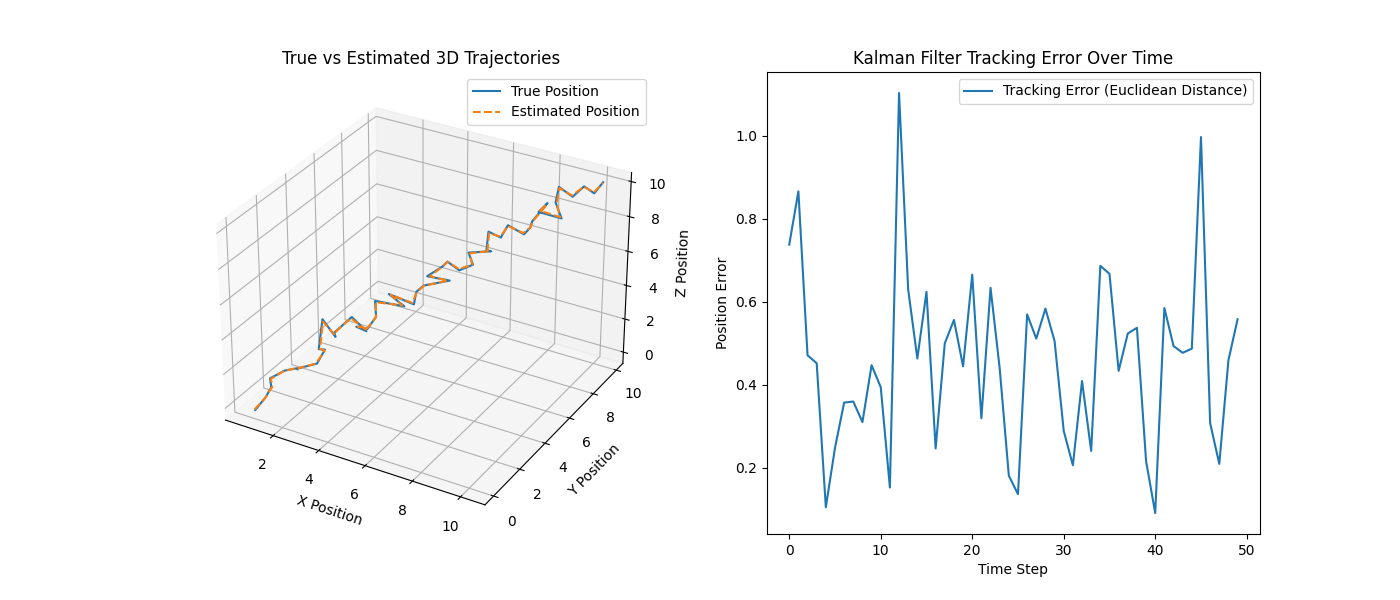
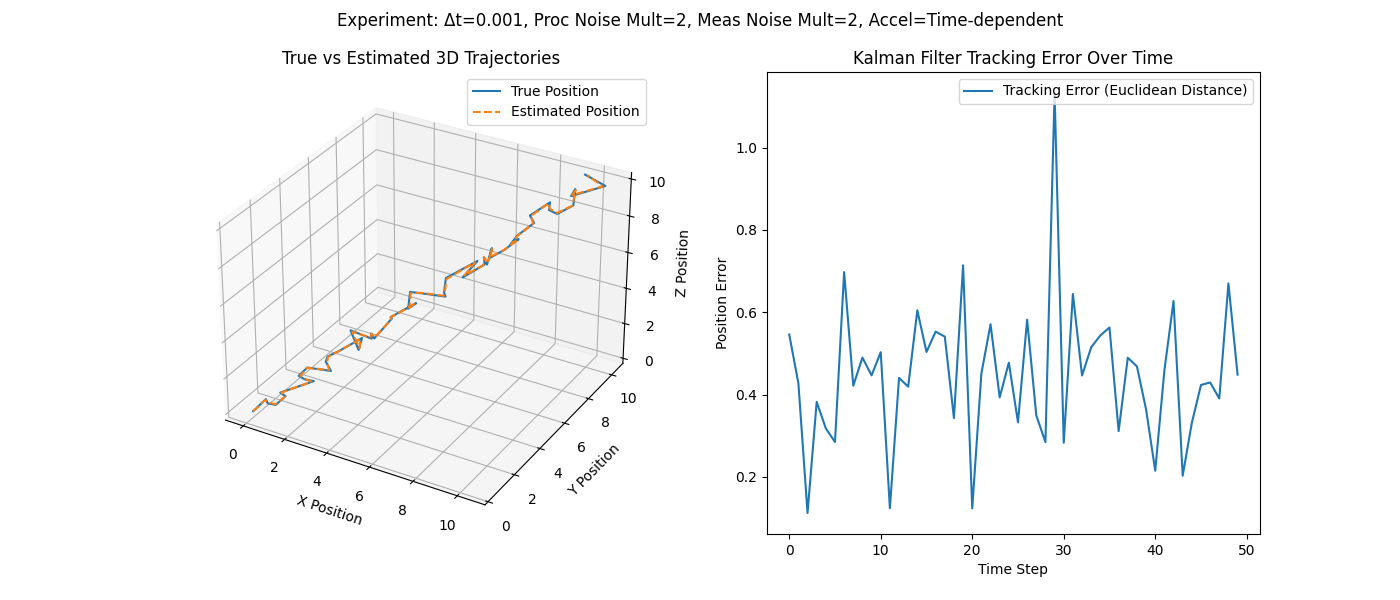
completed

diff --git a/main.py b/main.py
@@ -145,37 +145,39 @@ def normal_run():
         ("Constant", np.array([0.1, 0.1, -0.01])),
         ("Time-dependent", lambda t: np.array([0.1 * np.sin(t), 0.1 * np.cos(t), -0.01 * t]))
     ]
-    # for delta_t in delta_t_values:
-    #     for (proc_noise_mult, meas_noise_mult) in noise_multipliers:
-    #         for acc_type, acceleration in acceleration_types:
-    #             # Create Kalman filter with adjusted noise
-    #             process_noise_cov = np.diag([0.02, 0.02, 0.02, 0.01, 0.01, 0.01]) * proc_noise_mult
-    #             measurement_noise_cov = np.diag([0.05, 0.05, 0.05, 0.02, 0.02, 0.02]) * meas_noise_mult
+    for delta_t in delta_t_values:
+        for (proc_noise_mult, meas_noise_mult) in noise_multipliers:
+            for acc_type, acceleration in acceleration_types:
+                # Create Kalman filter with adjusted noise
+                process_noise_cov = np.diag([0.02, 0.02, 0.02, 0.01, 0.01, 0.01]) * proc_noise_mult
+                measurement_noise_cov = np.diag([0.05, 0.05, 0.05, 0.02, 0.02, 0.02]) * meas_noise_mult
 
-    #             # Instantiate Kalman filter
-    #             kalman_filter = MissileTrackerKalmanFilter(
-    #                 delta_t, H, process_noise_cov, measurement_noise_cov, initial_state, initial_covariance
-    #             )
+                # Instantiate Kalman filter
+                kalman_filter = MissileTrackerKalmanFilter(
+                    delta_t, H, process_noise_cov, measurement_noise_cov, initial_state, initial_covariance
+                )
 
-    #             # Run simulation based on acceleration type
-    #             if acc_type == "Constant":
-    #                 true_positions, estimated_positions, errors = Util.simulate_trajectory(
-    #                     time_steps, delta_t, int(0.01 / delta_t), initial_position, initial_velocity, acceleration, kalman_filter
-    #                 )
-    #             elif acc_type == "Time-dependent":
-    #                 true_positions, estimated_positions, errors = Util.simulate_trajectory(
-    #                     time_steps, delta_t, int(0.02 / delta_t), initial_position, initial_velocity, acceleration, kalman_filter
-    #                 )
+                # Run simulation based on acceleration type
+                if acc_type == "Constant":
+                    true_positions, estimated_positions, errors = Util.simulate_trajectory(
+                        time_steps, delta_t, int(0.01 / delta_t), initial_position, initial_velocity, acceleration, kalman_filter
+                    )
+                elif acc_type == "Time-dependent":
+                    true_positions, estimated_positions, errors = Util.simulate_trajectory(
+                        time_steps, delta_t, int(0.02 / delta_t), initial_position, initial_velocity, acceleration, kalman_filter
+                    )
 
-    #             # Plot and display results
-    #             title = f"Experiment: Δt={delta_t}, Proc Noise Mult={proc_noise_mult}, Meas Noise Mult={meas_noise_mult}, Accel={acc_type}"
-    #             print(title)
-    #             fig = Util.plot_trajectory(true_positions, estimated_positions, errors, normal_run=False)
-    #             # save fig
-    #             save_name = re.sub(r'[<>:"/\\|?*]', "", title)
-    #             save_name = save_name.replace(" ", "_").replace("Δ", "delta").replace("=", "_").replace(",", "_").replace(".", "_") + ".png"
-    #             os.makedirs("results", exist_ok=True)
-    #             fig.savefig(os.path.join("results", save_name))
+                # Plot and display results
+                title = f"Experiment: Δt={delta_t}, Proc Noise Mult={proc_noise_mult}, Meas Noise Mult={meas_noise_mult}, Accel={acc_type}"
+                print(title)
+                fig = Util.plot_trajectory(true_positions, estimated_positions, errors, normal_run=False)
+                # add parameter values in plt
+                plt.suptitle(title)
+                # save fig
+                save_name = re.sub(r'[<>:"/\\|?*]', "", title)
+                save_name = save_name.replace(" ", "_").replace("Δ", "delta").replace("=", "_").replace(",", "_").replace(".", "_") + ".png"
+                os.makedirs("results", exist_ok=True)
+                fig.savefig(os.path.join("results", save_name))
 
     # create plots when only delta_t is varied
     errors=[]
@@ -189,11 +191,9 @@ def normal_run():
             time_steps, delta_t, int(0.2 / delta_t), initial_position, initial_velocity, np.array([0.1, 0.1, -0.01]), kalman_filter
         )
         rmse_error = np.sqrt(np.mean(np.square(error)))
-        # scale by total true position cnt
-        rmse_error_scaled = rmse_error/len(true_positions)
-        errors.append(rmse_error_scaled)
+        errors.append(rmse_error)
 
-    fig, ax = plt.subplots(2, 2, figsize=(10, 12))
+    fig, ax = plt.subplots(2, 2, figsize=(12, 10))
 
     # Create line plot of errors and delta_t
     ax[0][0].plot(delta_t_values, errors)

diff --git a/README.md b/README.md
@@ -1,4 +1,6 @@
-## Kalman Filter Implementation
+# Kalman Filter
+
+## Implementation
 
 The Kalman filter is a recursive algorithm used for estimating the state of a dynamic system from a series of measurements. In the context of missile tracking, the Kalman filter is used to estimate the position and velocity of the target aircraft based on noisy measurements from a radar system.
 
@@ -56,11 +58,12 @@ The simulated trajectory can be used to evaluate the performance of the Kalman f
 
 ![result](result.png)
 
-![collage](collage_output.jpg)
-
 - We observe that the Scaled RMSE decreases with an increase in $\Delta t$, which is expected as the parameters change frequently, and the filter cannot keep up with the rapid changes.
 - The Scaled RMSE increases with increased measurement noise, as expected, due to the increased uncertainty in measurements.
 - The results in both constant and variable acceleration do not reveal much about the filter's performance, as the RMSE is unpredictable and does not follow a specific pattern.
+
+Results of kalman filter on various parameters are shown below:
+![collage](collage_output.jpg)
 
 ## Authors
 
